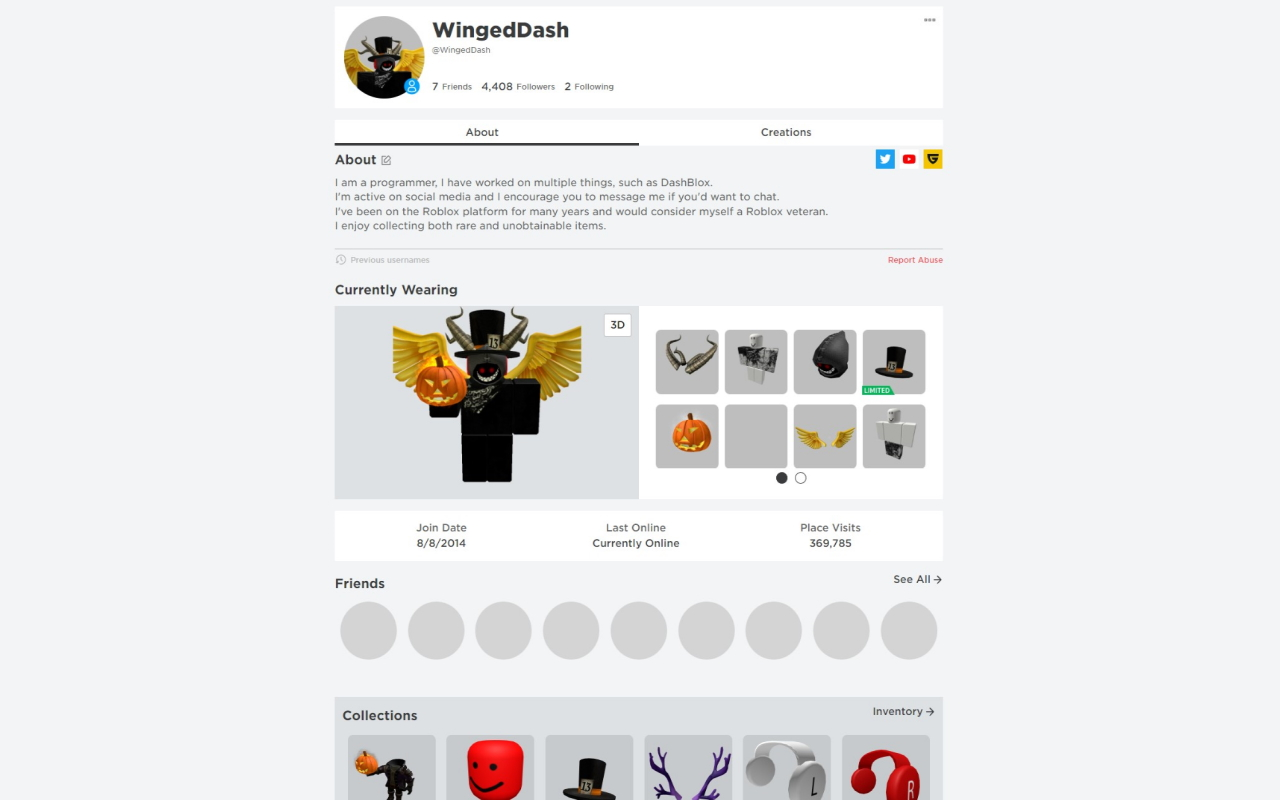
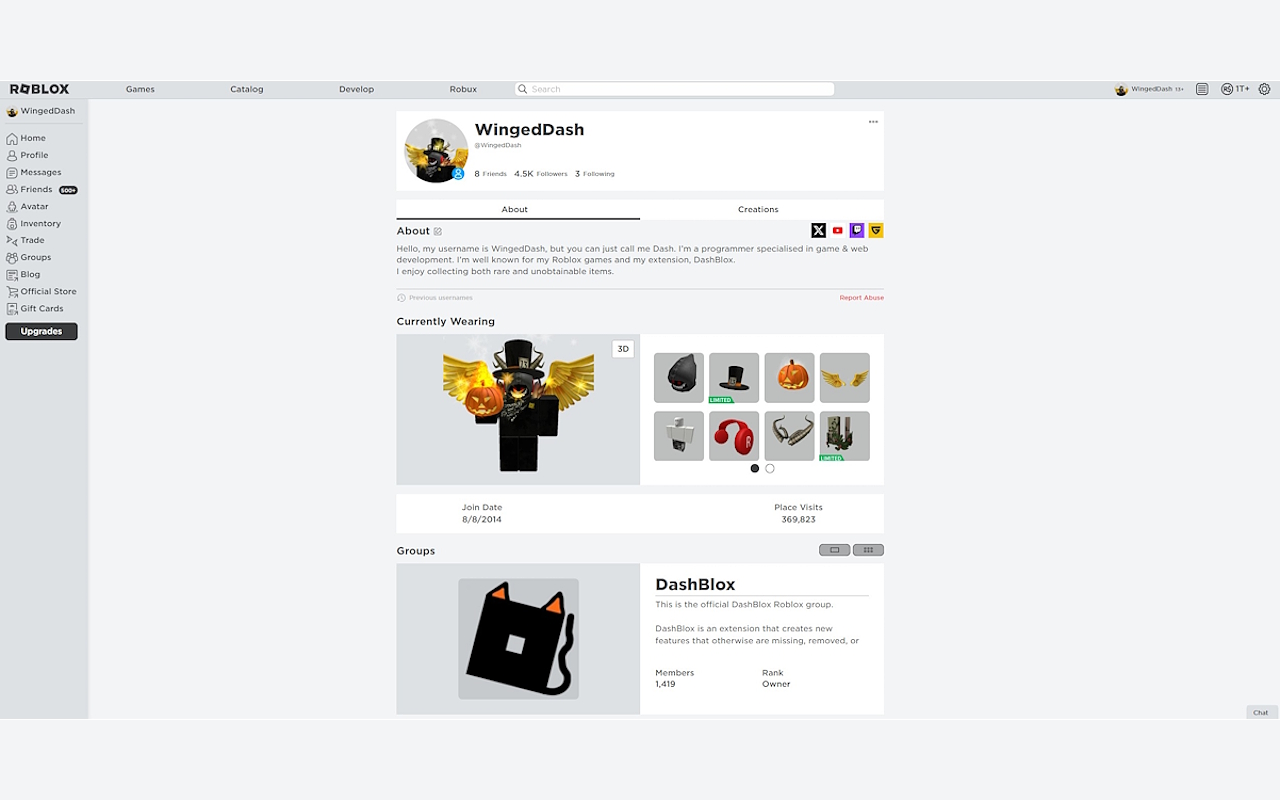
Updated to v2.2

diff --git a/Update log.md b/Update log.md
@@ -1,4 +1,17 @@
 # Update Logs
+* Update Version 2.2
+    * Revamped DashBlox settings page.
+        * Added drop-down menus.
+        * Added locale warning labels.
+        * Updated the design for community & social links.
+        * Updated Privacy Policy section to support markdown.
+    * Added Gotham Font.
+    * Added Original Creation Text.
+    * Disabled Block Roblox Alerts.
+    * Disabled Grouped Home Page.
+    * Deprecated Last Online.
+    * Patched multiple bugs.
+---
 * Update Version 2.1.5
     * Fixed bugs.
     * Removed option to revert popular tab changes. (Patched)
